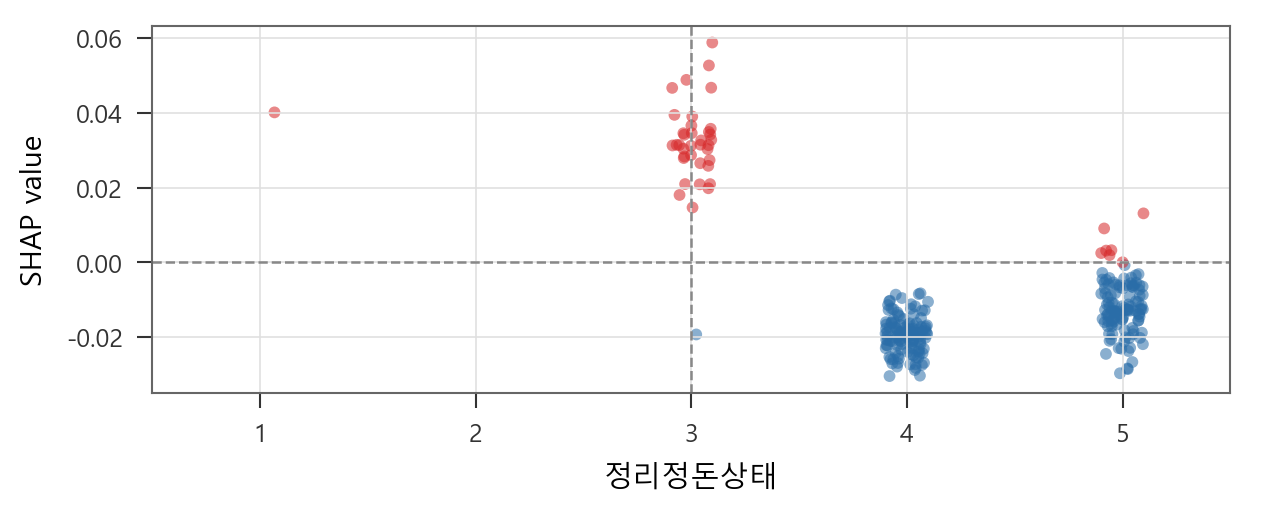
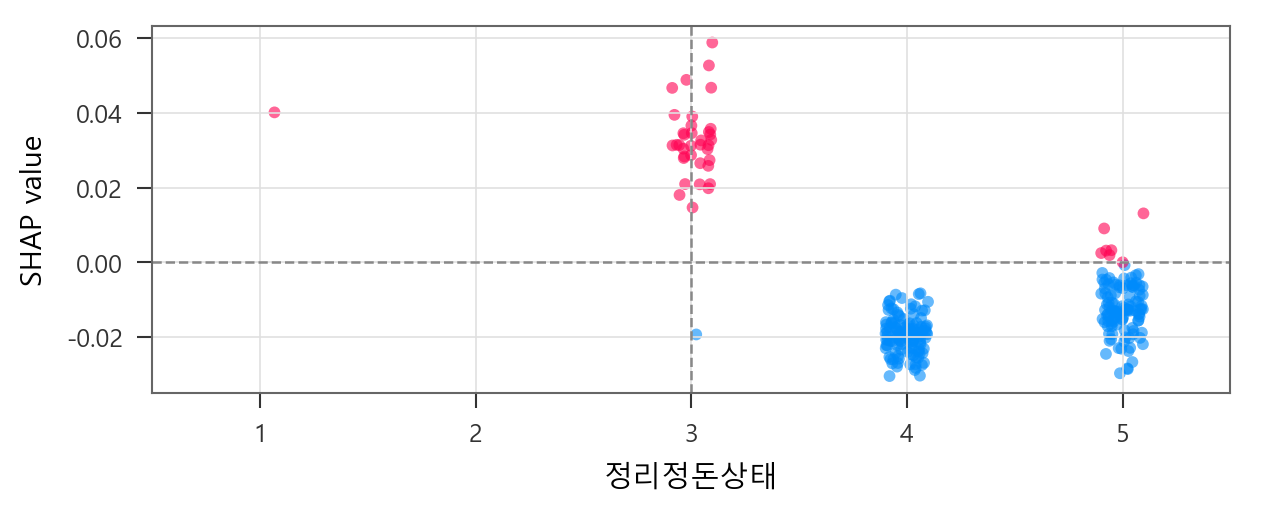
13·12 색 보정 v2: legacy fig6 SHAP cmap 톤(#008BFB·#FF0052) 적용
- 12_shap_dependence: 양수 #FF0052 / 음수 #008BFB (legacy fig6 동일 픽셀 색 추출)
- 13_shap_bar: 주요변수 #008BFB / 통제변수 #B3DCFE (동일 톤 명도 2단)
- bar 범례 '주요변수 (독립·조절)' vs '통제변수' 우하단

diff --git a/src/paper_figures.py b/src/paper_figures.py
@@ -148,8 +148,8 @@ report_dims(OUT / '11_roc_curves.png')
 
 # ============ 그림 7.2 — SHAP Bar 전체 27변수 (125.85 × 78.46 mm) ============
 # 파랑톤 2단 분리: 주요변수(독립A·B·조절 11) 진한 파랑, 통제(16) 옅은 파랑
-COLOR_FOCUS    = '#2A6DA8'   # 진한 파랑 (SHAP summary plot 톤)
-COLOR_CTRL_LT  = '#AEC7E8'   # 옅은 파랑
+COLOR_FOCUS    = '#008BFB'   # legacy fig6_정리정돈 파랑 (SHAP 표준 cmap)
+COLOR_CTRL_LT  = '#B3DCFE'   # 동일 톤 옅은 변형 (주요·통제 명도 2단)
 
 focus_set = set(VARS_A + VARS_B + VARS_MOD)
 
@@ -203,11 +203,11 @@ W = 107.39 / 25.4; H = 45.02 / 25.4
 fig = plt.figure(figsize=(W, H))
 ax = fig.add_axes([0.12, 0.26, 0.85, 0.69])
 
-# 양/음 색 분리 (SHAP summary plot 톤)
+# SHAP 표준 cmap 양 끝 색 (legacy fig6_정리정돈_Dependence 톤 일치)
 rng = np.random.RandomState(42)
 xj = xv + rng.uniform(-0.10, 0.10, size=len(xv))
-colors = np.where(yv > 0, '#D62728', '#2A6DA8')   # 양수 빨강, 음수 진한 파랑
-ax.scatter(xj, yv, s=8, alpha=0.55, c=colors, edgecolors='none')
+colors = np.where(yv > 0, '#FF0052', '#008BFB')   # 양수 빨강, 음수 파랑
+ax.scatter(xj, yv, s=8, alpha=0.6, c=colors, edgecolors='none')
 
 ax.axhline(0, color='#888888', linestyle='--', linewidth=0.6)
 ax.axvline(3, color='#888888', linestyle='--', linewidth=0.6)